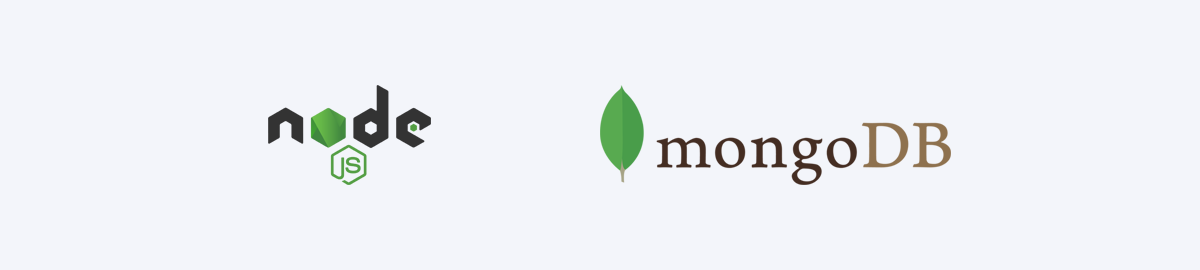
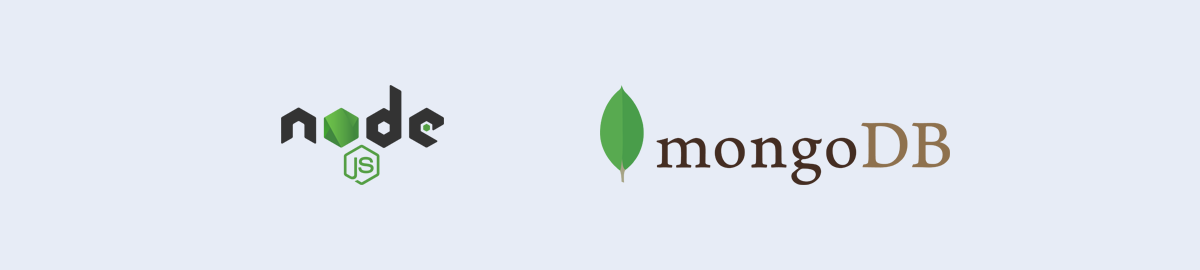
update: some post header pics

Changed region(s): [[0.2158, 0.2963, 0.37, 0.6815], [0.555, 0.4741, 0.8017, 0.6519]]

diff --git a/content/code/2020/js-extends-note.md b/content/code/2020/js-extends-note.md
@@ -4,6 +4,7 @@ date: 2020-08-02T16:19:39+08:00
 tags:
   - javascript
 description: '语法糖是生产力进步的阶梯。'
+image: '/images/2020/js-extends-note/header.webp'
 ---
 
 直接进入正题，下图为继承方式的简单分类，这里主要只注重于组合继承、寄生组合继承与 ES6 Class 继承。
